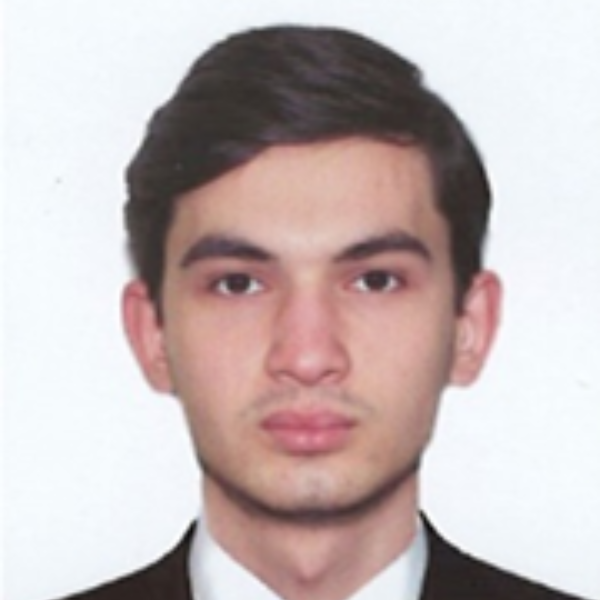
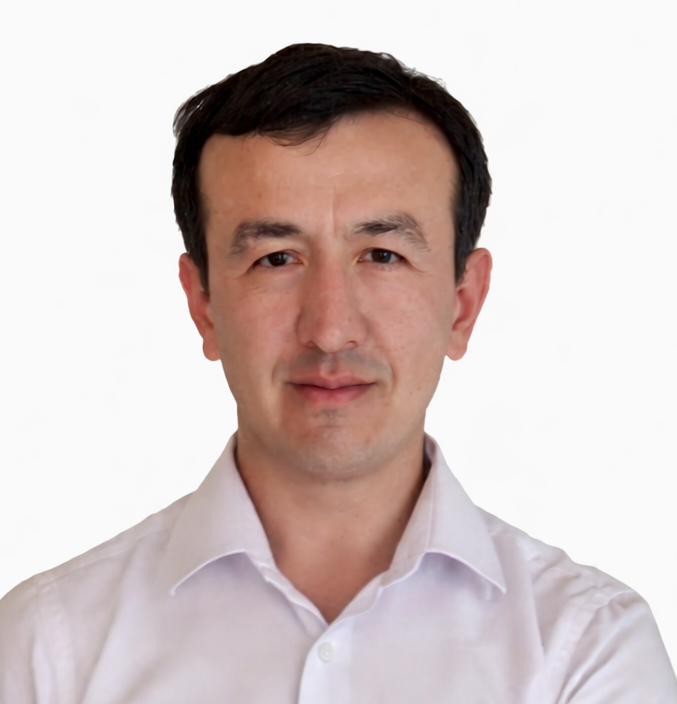
Yangilandi

diff --git a/scripts/fetch_telegram_news.py b/scripts/fetch_telegram_news.py
@@ -4,130 +4,96 @@ import asyncio
 from datetime import datetime
 from telethon import TelegramClient
 from telethon.sessions import StringSession
+from openai import OpenAI
 
+# ===== ENV =====
 API_ID = int(os.environ["TG_API_ID"])
 API_HASH = os.environ["TG_API_HASH"]
 SESSION = os.environ["TG_SESSION"]
 CHANNEL = os.environ.get("TG_CHANNEL", "uztestrasmiy")
+OPENAI_KEY = os.environ["OPENAI_API_KEY"]
 
-OUT_FILE = "public/news.json"
+OUT_JSON = "public/news.json"
 MEDIA_DIR = "public/news_media"
-LIMIT = 50  # ko‘proq olamiz, keyin guruhlab LIMIT ta post qoldiramiz
+LIMIT = 20
 
+client_ai = OpenAI(api_key=OPENAI_KEY)
+
+# ===== HELPERS =====
 def fmt_date(dt):
-    if not dt:
-        return None
-    return dt.strftime("%Y-%m-%d")
+    return dt.strftime("%Y-%m-%d") if dt else None
 
-def safe_title(text: str) -> str:
-    if not text:
-        return "Yangilik"
-    return text.strip().split("\n")[0][:120] or "Yangilik"
+def translate_uz_to_ru(text: str) -> str:
+    if not text.strip():
+        return ""
 
+    resp = client_ai.chat.completions.create(
+        model="gpt-4o-mini",
+        messages=[
+            {
+                "role": "system",
+                "content": "You are a professional translator. Translate Uzbek to Russian accurately, formally, without adding anything."
+            },
+            {
+                "role": "user",
+                "content": text
+            }
+        ],
+        temperature=0.2
+    )
+    return resp.choices[0].message.content.strip()
+
+# ===== MAIN =====
 async def main():
-    os.makedirs("public", exist_ok=True)
     os.makedirs(MEDIA_DIR, exist_ok=True)
+    items = []
 
-    # grouped_id -> album item
-    grouped = {}
-    singles = []
+    async with TelegramClient(StringSession(SESSION), API_ID, API_HASH) as tg:
+        channel = await tg.get_entity(CHANNEL)
 
-    async with TelegramClient(StringSession(SESSION), API_ID, API_HASH) as client:
-        channel = await client.get_entity(CHANNEL)
+        async for msg in tg.iter_messages(channel, limit=LIMIT):
+            if not msg.message:
+                continue
 
-        async for msg in client.iter_messages(channel, limit=LIMIT):
-            # text (caption) ba’zan faqat 1-rasmda bo‘ladi
-            text = (msg.message or "").strip()
+            text_uz = msg.message.strip()
+            title_uz = text_uz.split("\n")[0][:120]
 
-            # album id (None bo‘lsa oddiy post)
-            gid = getattr(msg, "grouped_id", None)
+            print(f"🔄 Translating post {msg.id}")
 
-            # rasm(lar)ni yuklab olish
+            title_ru = translate_uz_to_ru(title_uz)
+            text_ru = translate_uz_to_ru(text_uz)
+
             photos = []
             if msg.photo:
-                # har bir rasmga unique nom beramiz
-                file_name = f"{msg.id}.jpg"
-                out_path = os.path.join(MEDIA_DIR, file_name)
+                file_path = f"{MEDIA_DIR}/{msg.id}_1.jpg"
+                await msg.download_media(file_path)
+                photos.append("/news_media/" + os.path.basename(file_path))
 
-                # oldin yuklangan bo‘lsa qayta yuklamaymiz
-                if not os.path.exists(out_path):
-                    try:
-                        await client.download_media(msg, file=out_path)
-                    except Exception:
-                        # download xato bo‘lsa o‘tkazib yuboramiz
-                        pass
+            items.append({
+                "tg_id": msg.id,
+                "date": fmt_date(msg.date),
+                "title": {
+                    "uz": title_uz,
+                    "ru": title_ru
+                },
+                "text": {
+                    "uz": text_uz,
+                    "ru": text_ru
+                },
+                "url": f"https://t.me/{CHANNEL}/{msg.id}",
+                "photos": photos
+            })
 
-                if os.path.exists(out_path):
-                    photos.append(f"/news_media/{file_name}")
-
-            # album bo‘lsa - bitta itemga yig‘amiz
-            if gid:
-                if gid not in grouped:
-                    grouped[gid] = {
-                        "tg_id": msg.id,          # keyin eng kattasini qo'yamiz
-                        "grouped_id": gid,
-                        "date": fmt_date(msg.date),
-                        "title": safe_title(text),
-                        "text": text,
-                        "url": f"https://t.me/{CHANNEL}/{msg.id}",
-                        "photos": [],
-                    }
-
-                g = grouped[gid]
-
-                # album ichida eng yangi msg.id katta bo‘ladi
-                if msg.id > g["tg_id"]:
-                    g["tg_id"] = msg.id
-                    g["url"] = f"https://t.me/{CHANNEL}/{msg.id}"
-                    g["date"] = fmt_date(msg.date) or g["date"]
-
-                # caption matnni bo‘sh bo‘lsa keyin to‘ldiramiz
-                if (not g["text"]) and text:
-                    g["text"] = text
-                    g["title"] = safe_title(text)
-
-                # fotos qo‘shamiz
-                if photos:
-                    g["photos"].extend(photos)
-
-            else:
-                # oddiy post
-                item = {
-                    "tg_id": msg.id,
-                    "date": fmt_date(msg.date),
-                    "title": safe_title(text),
-                    "text": text,
-                    "url": f"https://t.me/{CHANNEL}/{msg.id}",
-                    "photos": photos,  # 0 yoki 1 bo‘lishi mumkin
-                }
-                # faqat text bo‘lgan postlar ham qoladi
-                if item["text"] or item["photos"]:
-                    singles.append(item)
-
-    # albumlar + singles
-    items = list(grouped.values()) + singles
-
-    # photos bo‘lmasa [] bo‘lsin
-    for it in items:
-        it["photos"] = it.get("photos") or []
-
-    # eng yangi yuqorida
     items.sort(key=lambda x: x["tg_id"], reverse=True)
 
-    # LIMIT ta post qoldiramiz
-    items = items[:30]
+    with open(OUT_JSON, "w", encoding="utf-8") as f:
+        json.dump({
+            "ok": True,
+            "updated_at": datetime.utcnow().isoformat() + "Z",
+            "items": items
+        }, f, ensure_ascii=False, indent=2)
 
-    with open(OUT_FILE, "w", encoding="utf-8") as f:
-        json.dump(
-            {
-                "ok": True,
-                "updated_at": datetime.utcnow().isoformat() + "Z",
-                "items": items,
-            },
-            f,
-            ensure_ascii=False,
-            indent=2,
-        )
+    print("✅ news.json updated with RU translation")
 
 if __name__ == "__main__":
     asyncio.run(main())
